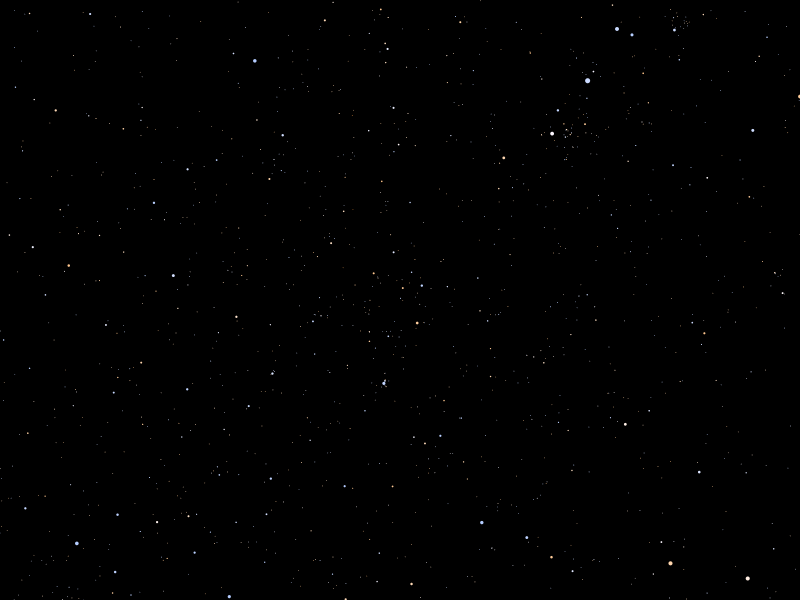
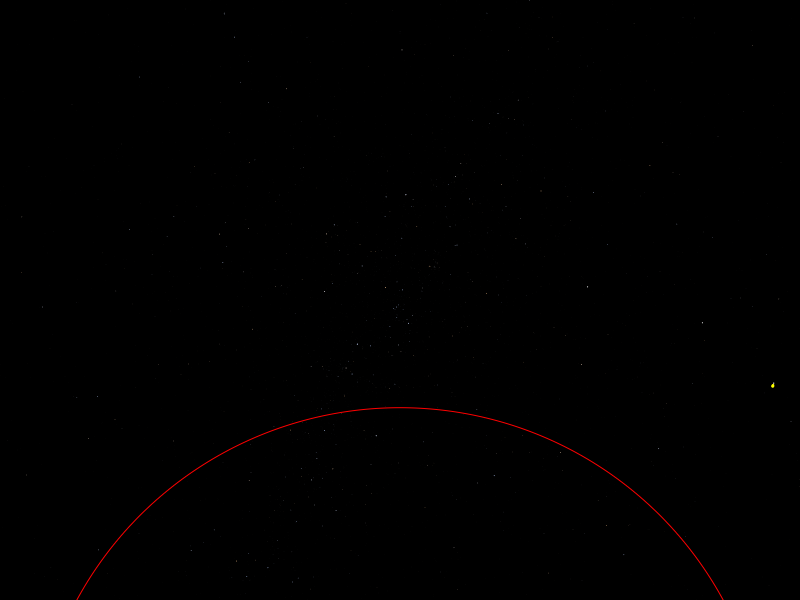
sky is drawn correctly

diff --git a/src/ch/epfl/rigel/gui/SkyCanvasPainter.java b/src/ch/epfl/rigel/gui/SkyCanvasPainter.java
@@ -1,6 +1,8 @@
 package ch.epfl.rigel.gui;
 
 import ch.epfl.rigel.astronomy.*;
+import ch.epfl.rigel.coordinates.CartesianCoordinates;
+import ch.epfl.rigel.coordinates.HorizontalCoordinates;
 import ch.epfl.rigel.coordinates.StereographicProjection;
 import ch.epfl.rigel.math.Angle;
 import ch.epfl.rigel.math.ClosedInterval;
@@ -25,9 +27,9 @@ public class SkyCanvasPainter {
 
 
     // returns transformed diameter of celestial objects
-    private double transformedDiscRadius(CelestialObject object, StereographicProjection projection, Transform planeToCanvas){
+    private double transformedDiscDiameter(CelestialObject object, StereographicProjection projection, Transform planeToCanvas){
         if((object instanceof Sun)|| (object instanceof Moon)){
-            double discRadius = projection.applyToAngle(object.angularSize());
+            double discRadius = projection.applyToAngle(Angle.ofDeg(0.5));
             Point2D transformedRadiusVector = planeToCanvas.deltaTransform(new Point2D(discRadius,0));
             return EuclidianDistance.norm(transformedRadiusVector.getX(),transformedRadiusVector.getY());
         }
@@ -56,6 +58,7 @@ public class SkyCanvasPainter {
         ctx.fillRect ( 0 , 0 , canvas.getWidth (), canvas.getHeight ());
     }
 
+    public int j = 0;
     /**
      * draws stars and asterism
      * @param sky
@@ -67,11 +70,12 @@ public class SkyCanvasPainter {
 
         int i =0;
         for(Star s:sky.stars()){
-            double discRadius = this.transformedDiscRadius(s,projection,planeToAffine);
+            double discRadius = this.transformedDiscDiameter(s,projection,planeToAffine);
             Point2D transformedCoordinates = this.transformCoordinates(sky.starCoordinates()[i],sky.starCoordinates()[i+1],planeToAffine);
             ctx.setFill(BlackBodyColor.colorForTemperature(s.colorTemperature()));
             ctx.fillOval(transformedCoordinates.getX()-discRadius,transformedCoordinates.getY()+discRadius,discRadius,discRadius);
-            i++;
+            i+=2;
+            j++;
         }
     }
 
@@ -85,11 +89,11 @@ public class SkyCanvasPainter {
 
         int i =0;
         for(Planet planet:sky.planets()){
-            double discRadius = this.transformedDiscRadius(planet,projection,planeToAffine);
+            double discRadius = this.transformedDiscDiameter(planet,projection,planeToAffine);
             Point2D transformedCoordinates = this.transformCoordinates(sky.planetCoordinates()[i],sky.planetCoordinates()[i+1],planeToAffine);
             ctx.setFill(Color.LIGHTGRAY);
             ctx.fillOval(transformedCoordinates.getX()-discRadius,transformedCoordinates.getY()+discRadius,discRadius,discRadius);
-            i++;
+            i+=2;
         }
     }
 
@@ -101,7 +105,7 @@ public class SkyCanvasPainter {
      */
     public void drawSun(ObservedSky sky,StereographicProjection projection, Transform planeToAffine){
 
-            double discRadius = this.transformedDiscRadius(sky.sun(),projection,planeToAffine);
+            double discRadius = this.transformedDiscDiameter(sky.sun(),projection,planeToAffine);
             Point2D transformedCoordinates = this.transformCoordinates(sky.sunPosition().x(),sky.sunPosition().y(),planeToAffine);
             // drawing smallest disc
             ctx.setFill(Color.WHITE);
@@ -114,6 +118,7 @@ public class SkyCanvasPainter {
             ctx.setFill(Color.YELLOW);
             ctx.fillOval(transformedCoordinates.getX()-(discRadius*2.2),transformedCoordinates.getY()+(discRadius*2.2),(discRadius*2.2),(discRadius*2.2));
             canvas.setOpacity(1);
+
         }
 
     /**
@@ -124,14 +129,20 @@ public class SkyCanvasPainter {
      */
 
     public void drawMoon(ObservedSky sky,StereographicProjection projection, Transform planeToAffine){
-
-        double discRadius = this.transformedDiscRadius(sky.moon(),projection,planeToAffine);
+        double discRadius = this.transformedDiscDiameter(sky.moon(),projection,planeToAffine);
         Point2D transformedCoordinates = this.transformCoordinates(sky.moonPosition().x(),sky.moonPosition().y(),planeToAffine);
         ctx.setFill(Color.WHITE);
         ctx.fillOval(transformedCoordinates.getX()-discRadius,transformedCoordinates.getY()+discRadius,discRadius,discRadius);
     }
 
-    public void drawHorizon(){
+    public void drawHorizon(StereographicProjection projection, Transform planeToAffine){
+        HorizontalCoordinates horizonCoord = HorizontalCoordinates.ofDeg(0, 0);
+        double discRadius = projection.circleRadiusForParallel(horizonCoord);
+        CartesianCoordinates circleCenter = projection.circleCenterForParallel(horizonCoord);
+        Point2D transformedRadius = planeToAffine.deltaTransform(discRadius,discRadius);
+        Point2D transformedCoordinates = this.transformCoordinates(circleCenter.x(),circleCenter.y(),planeToAffine);
+        ctx.setStroke(Color.RED);
+        ctx.strokeOval(transformedCoordinates.getX() - transformedRadius.getX(),transformedCoordinates.getY() + transformedRadius.getX(), transformedRadius.getX()*2, transformedRadius.getX()*2);
 
     }
 }

diff --git a/src/ch/epfl/rigel/astronomy/ObservedSky.java b/src/ch/epfl/rigel/astronomy/ObservedSky.java
@@ -63,7 +63,7 @@ public class ObservedSky {
         for(PlanetModel P: PlanetModel.values()){
             // iterate through all enums and add their projection to the hashmap
             if(!P.getFrenchName().equals("Terre")){
-                final Planet currentPlanet; // we make sure that once currentPlanet is passed into list, list members are immutable
+                Planet currentPlanet;
                 CartesianCoordinates projectedCoordinate;
                 currentPlanet = P.at(Epoch.J2010.daysUntil(when),new EclipticToEquatorialConversion(when));
                 tempHorizontal = new EquatorialToHorizontalConversion(when,where).apply(currentPlanet.equatorialPos());

diff --git a/src/ch/epfl/rigel/gui/DrawSky.java b/src/ch/epfl/rigel/gui/DrawSky.java
@@ -48,6 +48,7 @@ public  final  class DrawSky extends Application {
             painter.drawPlanets(sky, projection, planeToCanvas);
             painter.drawSun(sky, projection, planeToCanvas);
             painter.drawMoon(sky, projection, planeToCanvas);
+            painter.drawHorizon( projection, planeToCanvas);
 
             primaryStage.setScene(new Scene(new BorderPane(canvas)));
             primaryStage.show();
